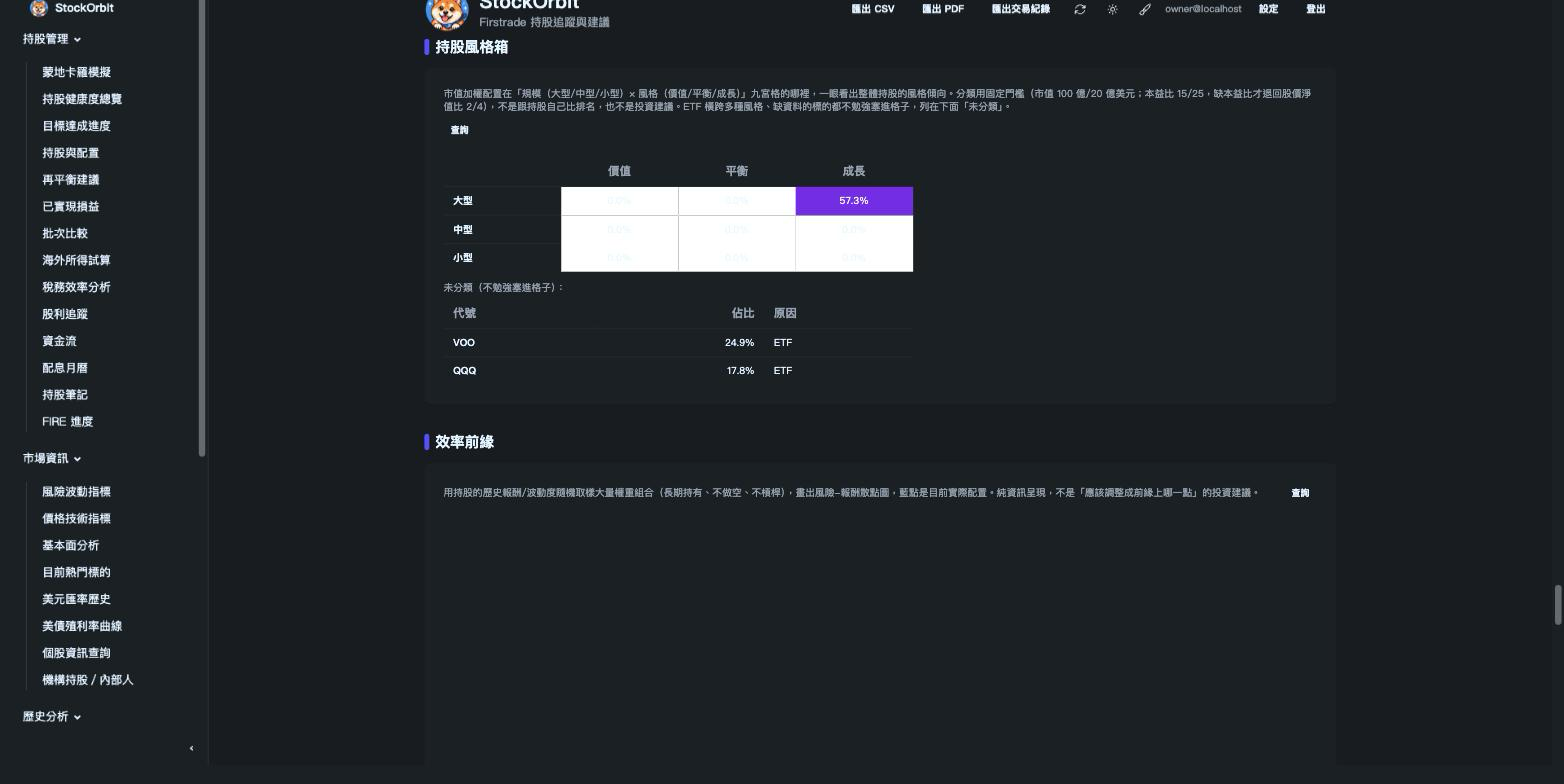
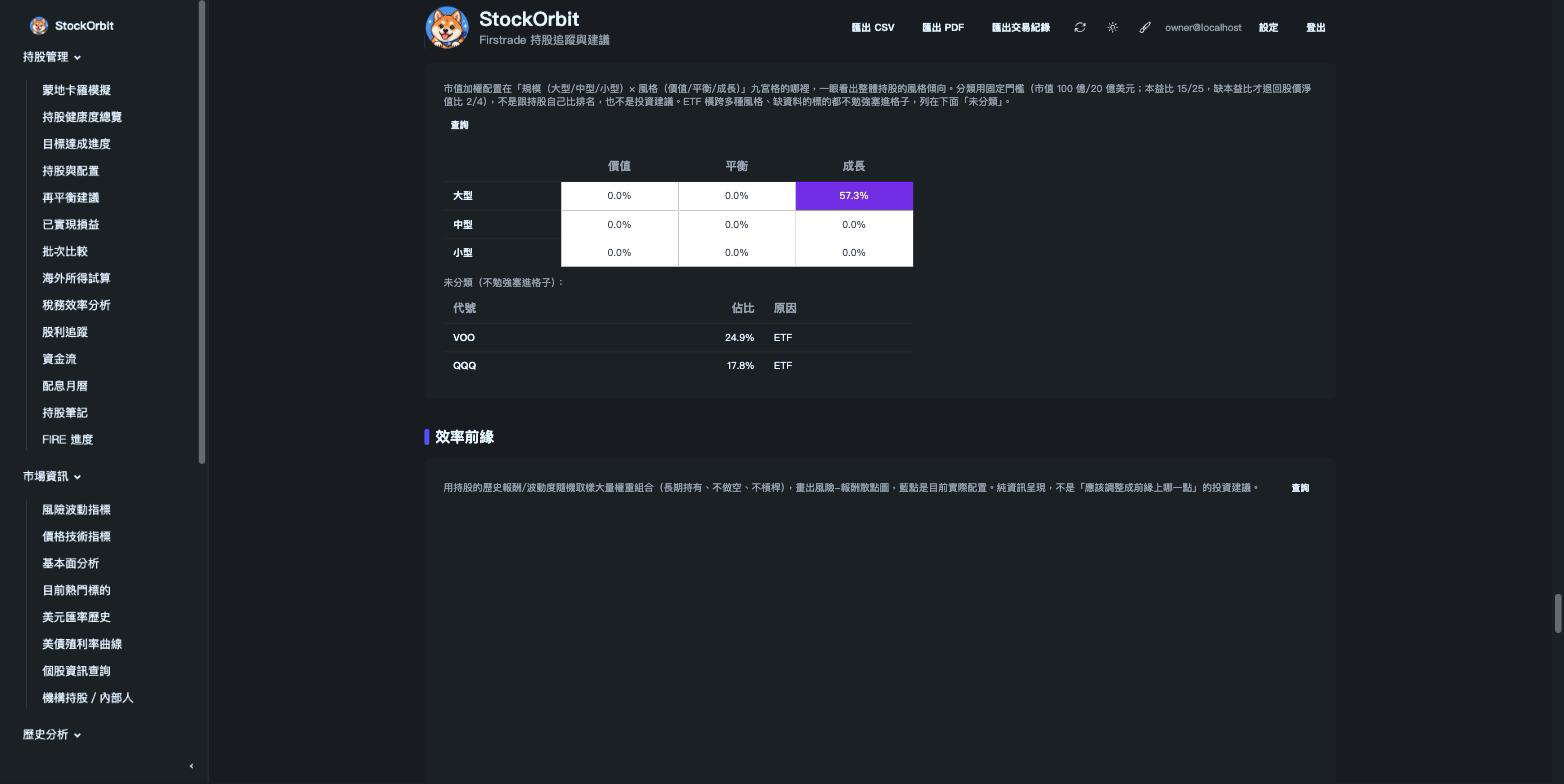
修正夜間模式下持股風格箱/資金流圖表文字看不清楚 (#316)
持股風格箱九宮格：文字色用 weight/maxWeight > 0.5 猜門檻，其餘 inherit。
但格子背景是固定白→紫漸層，跟目前主題是深色或淺色無關；淺色格子在夜間
模式套用淺色系 inherit 文字就整個看不見（使用者截圖回報）。改成直接算
混色後背景的實際亮度（luminance）選黑/白字，不用猜門檻。

資金流 Sankey 圖同一批問題：chartjs-chart-sankey 的節點標籤預設黑色文
字，沒有吃到 _shared.html 全域設的 Chart.defaults.color，深色卡片背景
上一樣看不見，補上明確的 color dataset 選項。

兩張 docs/ 截圖也一併換成修好後的版本。

diff --git a/app/templates/sections/style_box.html b/app/templates/sections/style_box.html
@@ -17,15 +17,27 @@
 <script>
 // --- 持股風格箱 ---
 // 0 (白，沒配置) -> 最重的格子 (深紫)，跟 correlation.html 同一套「混色」手法
+function styleBoxMixedRgb(weight, maxWeight) {
+  const f = maxWeight ? Math.max(0, Math.min(1, weight / maxWeight)) : 0;
+  const mix = (from, to, t) => from + (to - from) * t;
+  const end = [124, 58, 237]; // violet-600
+  return [mix(255, end[0], f), mix(255, end[1], f), mix(255, end[2], f)];
+}
 function styleBoxColor(weight, maxWeight) {
   if (!maxWeight) return 'transparent';
-  const f = Math.max(0, Math.min(1, weight / maxWeight));
-  const mix = (from, to, t) => Math.round(from + (to - from) * t);
-  const end = [124, 58, 237]; // violet-600
-  return `rgb(${mix(255, end[0], f)}, ${mix(255, end[1], f)}, ${mix(255, end[2], f)})`;
+  const [r, g, b] = styleBoxMixedRgb(weight, maxWeight);
+  return `rgb(${Math.round(r)}, ${Math.round(g)}, ${Math.round(b)})`;
 }
+// The cell background always starts near-white at weight 0 (fixed gradient,
+// not theme-dependent), so text color can't just be "inherit" - the
+// current theme's default text is light in dark mode, which disappears on
+// that near-white cell. Pick black/white from the actual mixed background's
+// luminance instead of guessing a fixed weight threshold.
 function styleBoxTextColor(weight, maxWeight) {
-  return maxWeight && weight / maxWeight > 0.5 ? '#fff' : 'inherit';
+  if (!maxWeight) return 'inherit';
+  const [r, g, b] = styleBoxMixedRgb(weight, maxWeight);
+  const luminance = (0.299 * r + 0.587 * g + 0.114 * b) / 255;
+  return luminance > 0.6 ? '#1e293b' : '#fff';
 }
 
 async function loadStyleBox() {

diff --git a/app/templates/sections/cash_flow_sankey.html b/app/templates/sections/cash_flow_sankey.html
@@ -42,6 +42,10 @@ async function loadCashFlowSankey() {
         colorFrom: () => '#4f46e5',
         colorTo: () => '#10b981',
         colorMode: 'gradient',
+        // chartjs-chart-sankey defaults its node-label color to black,
+        // ignoring Chart.defaults.color (_shared.html) - explicit per
+        // theme, or the labels are unreadable on the dark card background.
+        color: isDark ? '#e2e8f0' : '#1e293b',
       }],
     },
     options: {

diff --git a/CHANGELOG.md b/CHANGELOG.md
@@ -4,6 +4,10 @@
 
 摘要版功能總覽請看 [README](README.md#功能)。
 
+## 2026-09-23（bugfix）
+
+- 修正夜間模式下兩個圖表的文字看不清楚：持股風格箱九宮格的文字色固定用 `weight/maxWeight > 0.5` 猜門檻、其餘一律 `inherit`——但格子背景是固定的白→紫漸層（跟目前是深色或淺色主題無關），淺色格子在夜間模式套用淺色系「inherit」文字就整個看不見。改成直接算混色後背景的實際亮度（luminance）來選黑/白字，不用猜的。資金流 Sankey 圖同一批問題：`chartjs-chart-sankey` 的節點標籤預設黑色文字，沒有吃到 `_shared.html` 裡全域設的 `Chart.defaults.color`，一樣在深色卡片背景上看不見，補上明確的 `color` dataset 選項
+
 ## 2026-09-23
 
 - 新增每日摘要 Email（issue #17）：管道選 Email，因為站台已經接了 `mailer.py`（stdlib smtplib）寄驗證信/重設密碼信，不需要像 LINE Notify／Telegram 那樣另外申請 token 才能動工。新檔 `app/domain/notifications/daily_digest.py`（純函式組信件內文）、`scripts/send_daily_summary.py`（排程腳本：對每個已驗證信箱的使用者重用既有 `advice.build_advice()`／`market_moves.price_swings()`／`risk.compute_risk_metrics()`，內容跟「進階建議」卡片同一套邏輯）、`.github/workflows/daily-summary.yml`（每天台北時間早上 7 點跑）。當天沒有值得提醒的事就跳過不寄信。需要另外在 GitHub repo 設定 `SMTP_*` secrets 才會真的寄出——這五個目前只在 Render 的環境變數有設，repo secrets 是空的，要使用者自己去 `Settings → Secrets and variables → Actions` 補上（不是我能代為設定的東西）
